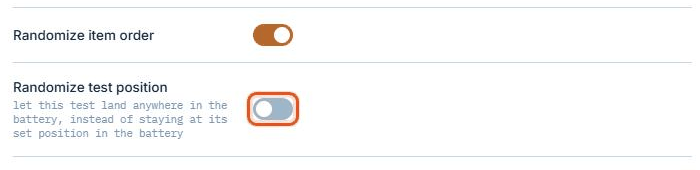
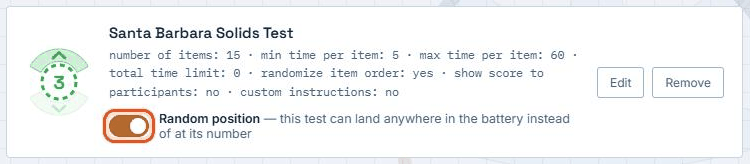
Battery page: Random position switch on each test card (out of the test settings)
The ring around the number turns dashed for a test with a random position.
Guide text and screenshots updated.

diff --git a/v2/index.html b/v2/index.html
@@ -995,6 +995,10 @@
     margin-bottom:2px;
   }
   .order-dial{display:block; overflow:visible;}
+  .order-ring.random{stroke-dasharray:5 4;}
+  .random-position{display:flex; align-items:center; gap:10px; margin-top:10px; font-size:12.5px; color:var(--ink-soft);}
+  .random-position b{color:var(--ink); font-weight:600;}
+  .random-position .toggle{flex-shrink:0;}
   .order-ring{fill:#fff; stroke:var(--order-colour); stroke-width:3;}
   .order-number{font-family:'Space Grotesk', sans-serif; font-weight:700; font-size:19px; fill:var(--order-colour); text-anchor:middle; dominant-baseline:central;}
   .order-band{fill:color-mix(in srgb, var(--order-colour) 22%, #fff); stroke:color-mix(in srgb, var(--order-colour) 55%, #fff); stroke-width:1; transition:fill .12s ease;}
@@ -2106,9 +2110,9 @@
         <li>Add your first test as above: <b>Catalog</b> &rarr; <b>Configure &amp; add</b> &rarr; <b>Add to battery</b>.</li>
         <li>To add the next test, click <b>+ Add another test</b> on the Battery page (or <b>Catalog</b> at the top) and repeat. Each test has its own settings.</li>
         <li>Set the order on the <b>Battery</b> page: drag a test up or down the list, or click the arrows above and below its number. Participants take the tests from top to bottom.
-          <figure class="guide-shot"><img src="guide/order.png" alt="The list of tests on the Battery page, with the order arrows around a test number outlined, and the Add another test button outlined" width="762" height="494" loading="lazy"></figure></li>
-        <li>To put a test in a random position for each participant, open its settings and turn on <b>Randomize test position</b>. Items within each test are shown in random order unless you turn off <b>Randomize item order</b>.
-          <figure class="guide-shot"><img src="guide/randomize-position.png" alt="The Randomize test position switch, outlined" width="700" height="170" loading="lazy"></figure></li>
+          <figure class="guide-shot"><img src="guide/order.png" alt="The list of tests on the Battery page, with the order arrows around a test number outlined, and the Add another test button outlined" width="762" height="559" loading="lazy"></figure></li>
+        <li>To put a test in a random position for each participant, switch on <b>Random position</b> on its card on the Battery page; its number ring turns dashed. Items within each test are shown in random order unless you turn off <b>Randomize item order</b> in the test's settings.
+          <figure class="guide-shot"><img src="guide/randomize-position.png" alt="A test card on the Battery page, with the Random position switch outlined" width="750" height="164" loading="lazy"></figure></li>
         <li>If you want, switch on one or more <b>Attention checks</b> on the Battery page. Use <b>&#9881; Settings</b> to change the message shown between tests.
           <figure class="guide-shot"><img src="guide/attention-settings.png" alt="The Settings button and an attention check switch, outlined" width="762" height="362" loading="lazy"></figure></li>
         <li>Click <b>Save</b> to keep a draft. Then click <b>Generate pilot link</b> to try it, or <b>Generate final link</b> to collect data, and send the link to participants.</li>
@@ -2903,7 +2907,6 @@ function standardFields(testId, defaultCount){
     { key: 'timeMax', label: 'Max time per item', hint: `seconds — recommended default = ${timeMaxDefault}`, type: 'number', min: 5, max: 300, step: 1, default: timeMaxDefault },
     { key: 'totalTimeLimit', label: 'Total time limit', hint: `seconds, 0 = no limit — recommended default = ${totalTimeDefault}`, type: 'number', min: 0, max: 3600, step: 30, default: totalTimeDefault },
     { key: 'randomizeItems', label: 'Randomize item order', hint: '', type: 'toggle', default: true },
-    { key: 'randomizeOrder', label: 'Randomize test position', hint: 'let this test land anywhere in the battery, instead of staying at its set position in the battery', type: 'toggle', default: false },
     { key: 'includeScore', label: 'Show score to participants', hint: "Turning this on will reveal the number correct and percentile rank of the participant's score at the end of this test.", type: 'toggle', default: false },
   ];
   if (DEFAULT_INSTRUCTIONS[testId]){
@@ -4109,10 +4112,17 @@ function renderBatteryList(){
     return `
       <div class="battery-item" draggable="true" ondragstart="batteryDragStart(event, ${i})" ondragover="batteryDragOver(event, ${i})"
            ondragleave="batteryDragLeave(event)" ondrop="batteryDrop(event, ${i})" ondragend="batteryDragEnd()">
-        <div class="battery-order">${orderDial(i, battery.length)}</div>
+        <div class="battery-order">${orderDial(i, battery.length, !!item.params.randomizeOrder)}</div>
         <div>
           <h4>${escapeHtml(test.name)}</h4>
           <div class="param-summary">${paramSummary(test, item.params)}</div>
+          <div class="random-position">
+            <label class="toggle">
+              <input type="checkbox" ${item.params.randomizeOrder ? 'checked' : ''} onchange="setBatteryRandomPosition(${i}, this.checked)" aria-label="Random position">
+              <span class="slider"></span>
+            </label>
+            <span><b>Random position</b> &mdash; this test can land anywhere in the battery instead of at its number</span>
+          </div>
         </div>
         <div class="battery-item-actions">
           <button onclick="editBatteryItem(${i})">Edit</button>
@@ -4127,7 +4137,7 @@ function renderBatteryList(){
 // down arrows hugging the ring above and below it. Each position takes one
 // of the logo's ring colours in turn.
 const ORDER_COLOURS = ['var(--compass-blue)', 'var(--compass-purple)', 'var(--compass-green)', 'var(--compass-red)', 'var(--compass-gold)'];
-function orderDial(i, count){
+function orderDial(i, count, random = false){
   const arrow = (dir, d, chevron, label, enabled) => `
     <g class="order-arrow${enabled ? '' : ' off'}" ${enabled
       ? `role="button" tabindex="0" aria-label="${label}" onclick="moveBatteryItem(${i}, ${dir})" onkeydown="if(event.key==='Enter'||event.key===' '){event.preventDefault();moveBatteryItem(${i}, ${dir});}"`
@@ -4138,10 +4148,17 @@ function orderDial(i, count){
   return `
     <svg class="order-dial" viewBox="0 0 68 92" width="68" height="92" style="--order-colour:${ORDER_COLOURS[i % ORDER_COLOURS.length]}">
       ${arrow(-1, 'M4.86,30.51 A33,33 0 0 1 63.14,30.51 L52.10,36.38 A20.5,20.5 0 0 0 15.90,36.38 Z', 'M28,22 L34,16.5 L40,22', 'Move up', i > 0)}
-      <circle class="order-ring" cx="34" cy="46" r="17"/>
+      <circle class="order-ring${random ? ' random' : ''}" cx="34" cy="46" r="17"/>
       <text class="order-number" x="34" y="46">${i + 1}</text>
       ${arrow(1, 'M63.14,61.49 A33,33 0 0 1 4.86,61.49 L15.90,55.62 A20.5,20.5 0 0 0 52.10,55.62 Z', 'M28,70 L34,75.5 L40,70', 'Move down', i < count - 1)}
     </svg>`;
+}
+
+// Whether a test keeps its numbered place or can land anywhere in the
+// battery (its ring is drawn dashed when it can).
+function setBatteryRandomPosition(index, on){
+  battery[index].params.randomizeOrder = on;
+  renderBatteryList();
 }
 
 function moveBatteryItem(index, direction){
